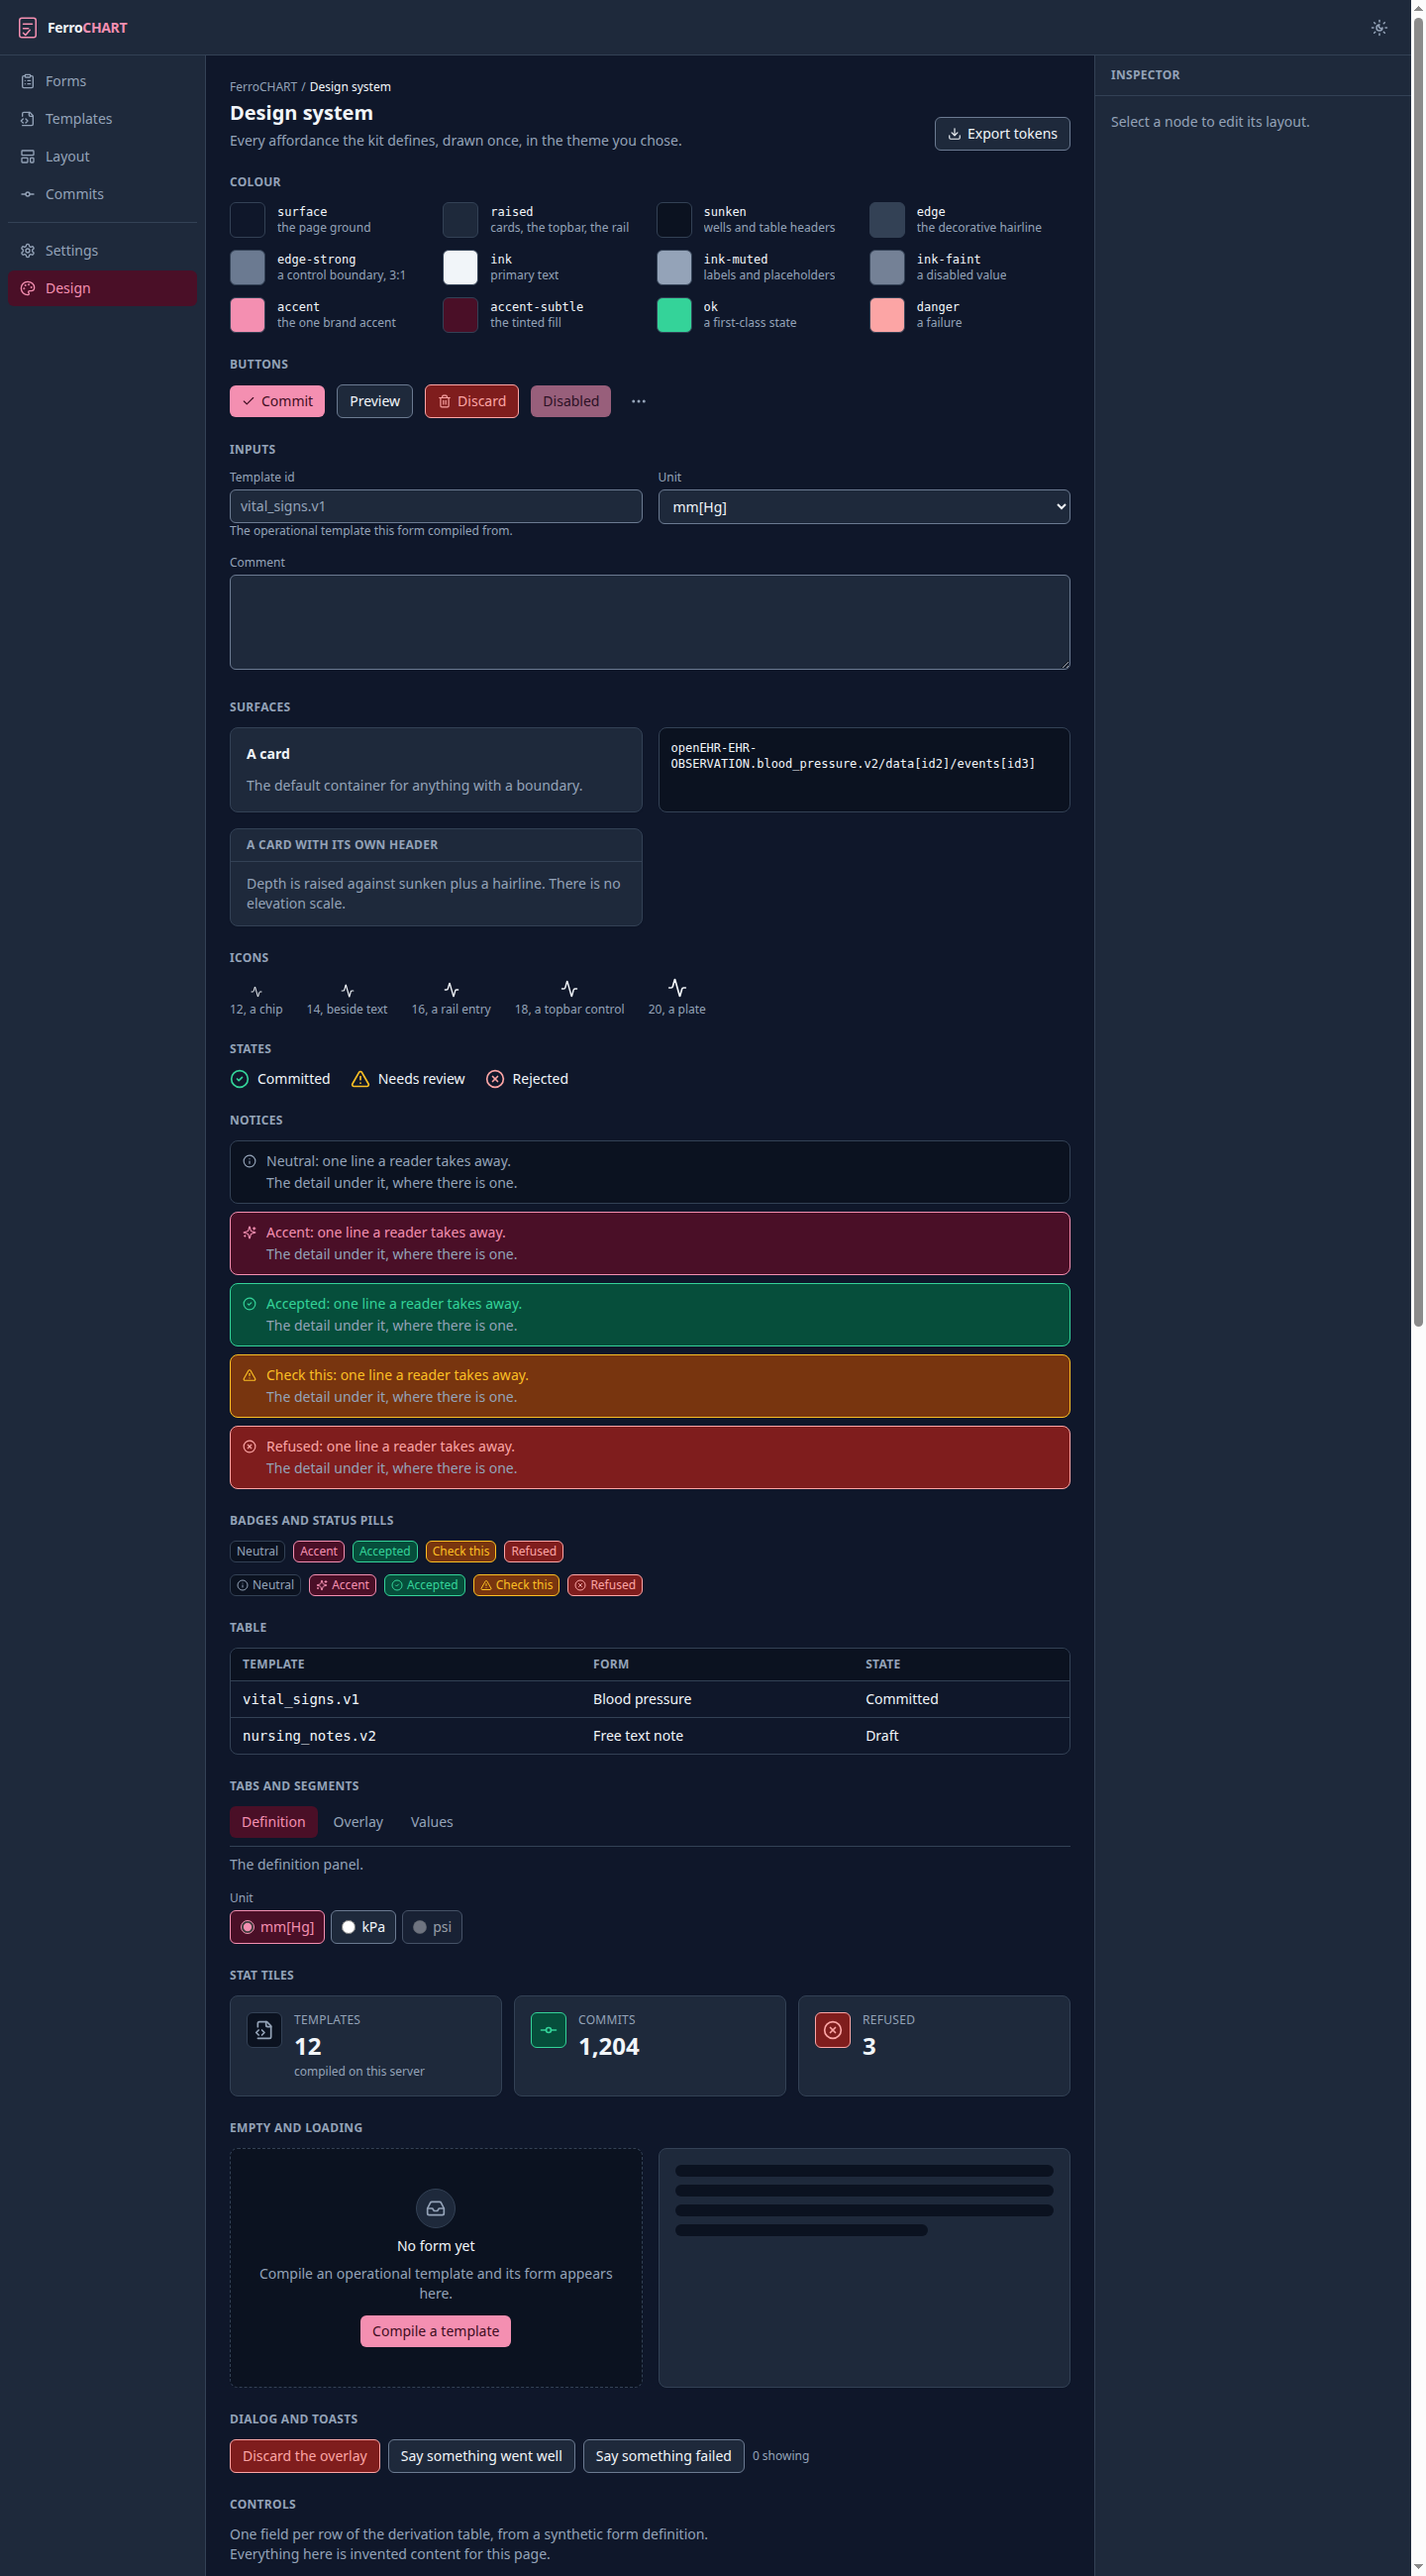
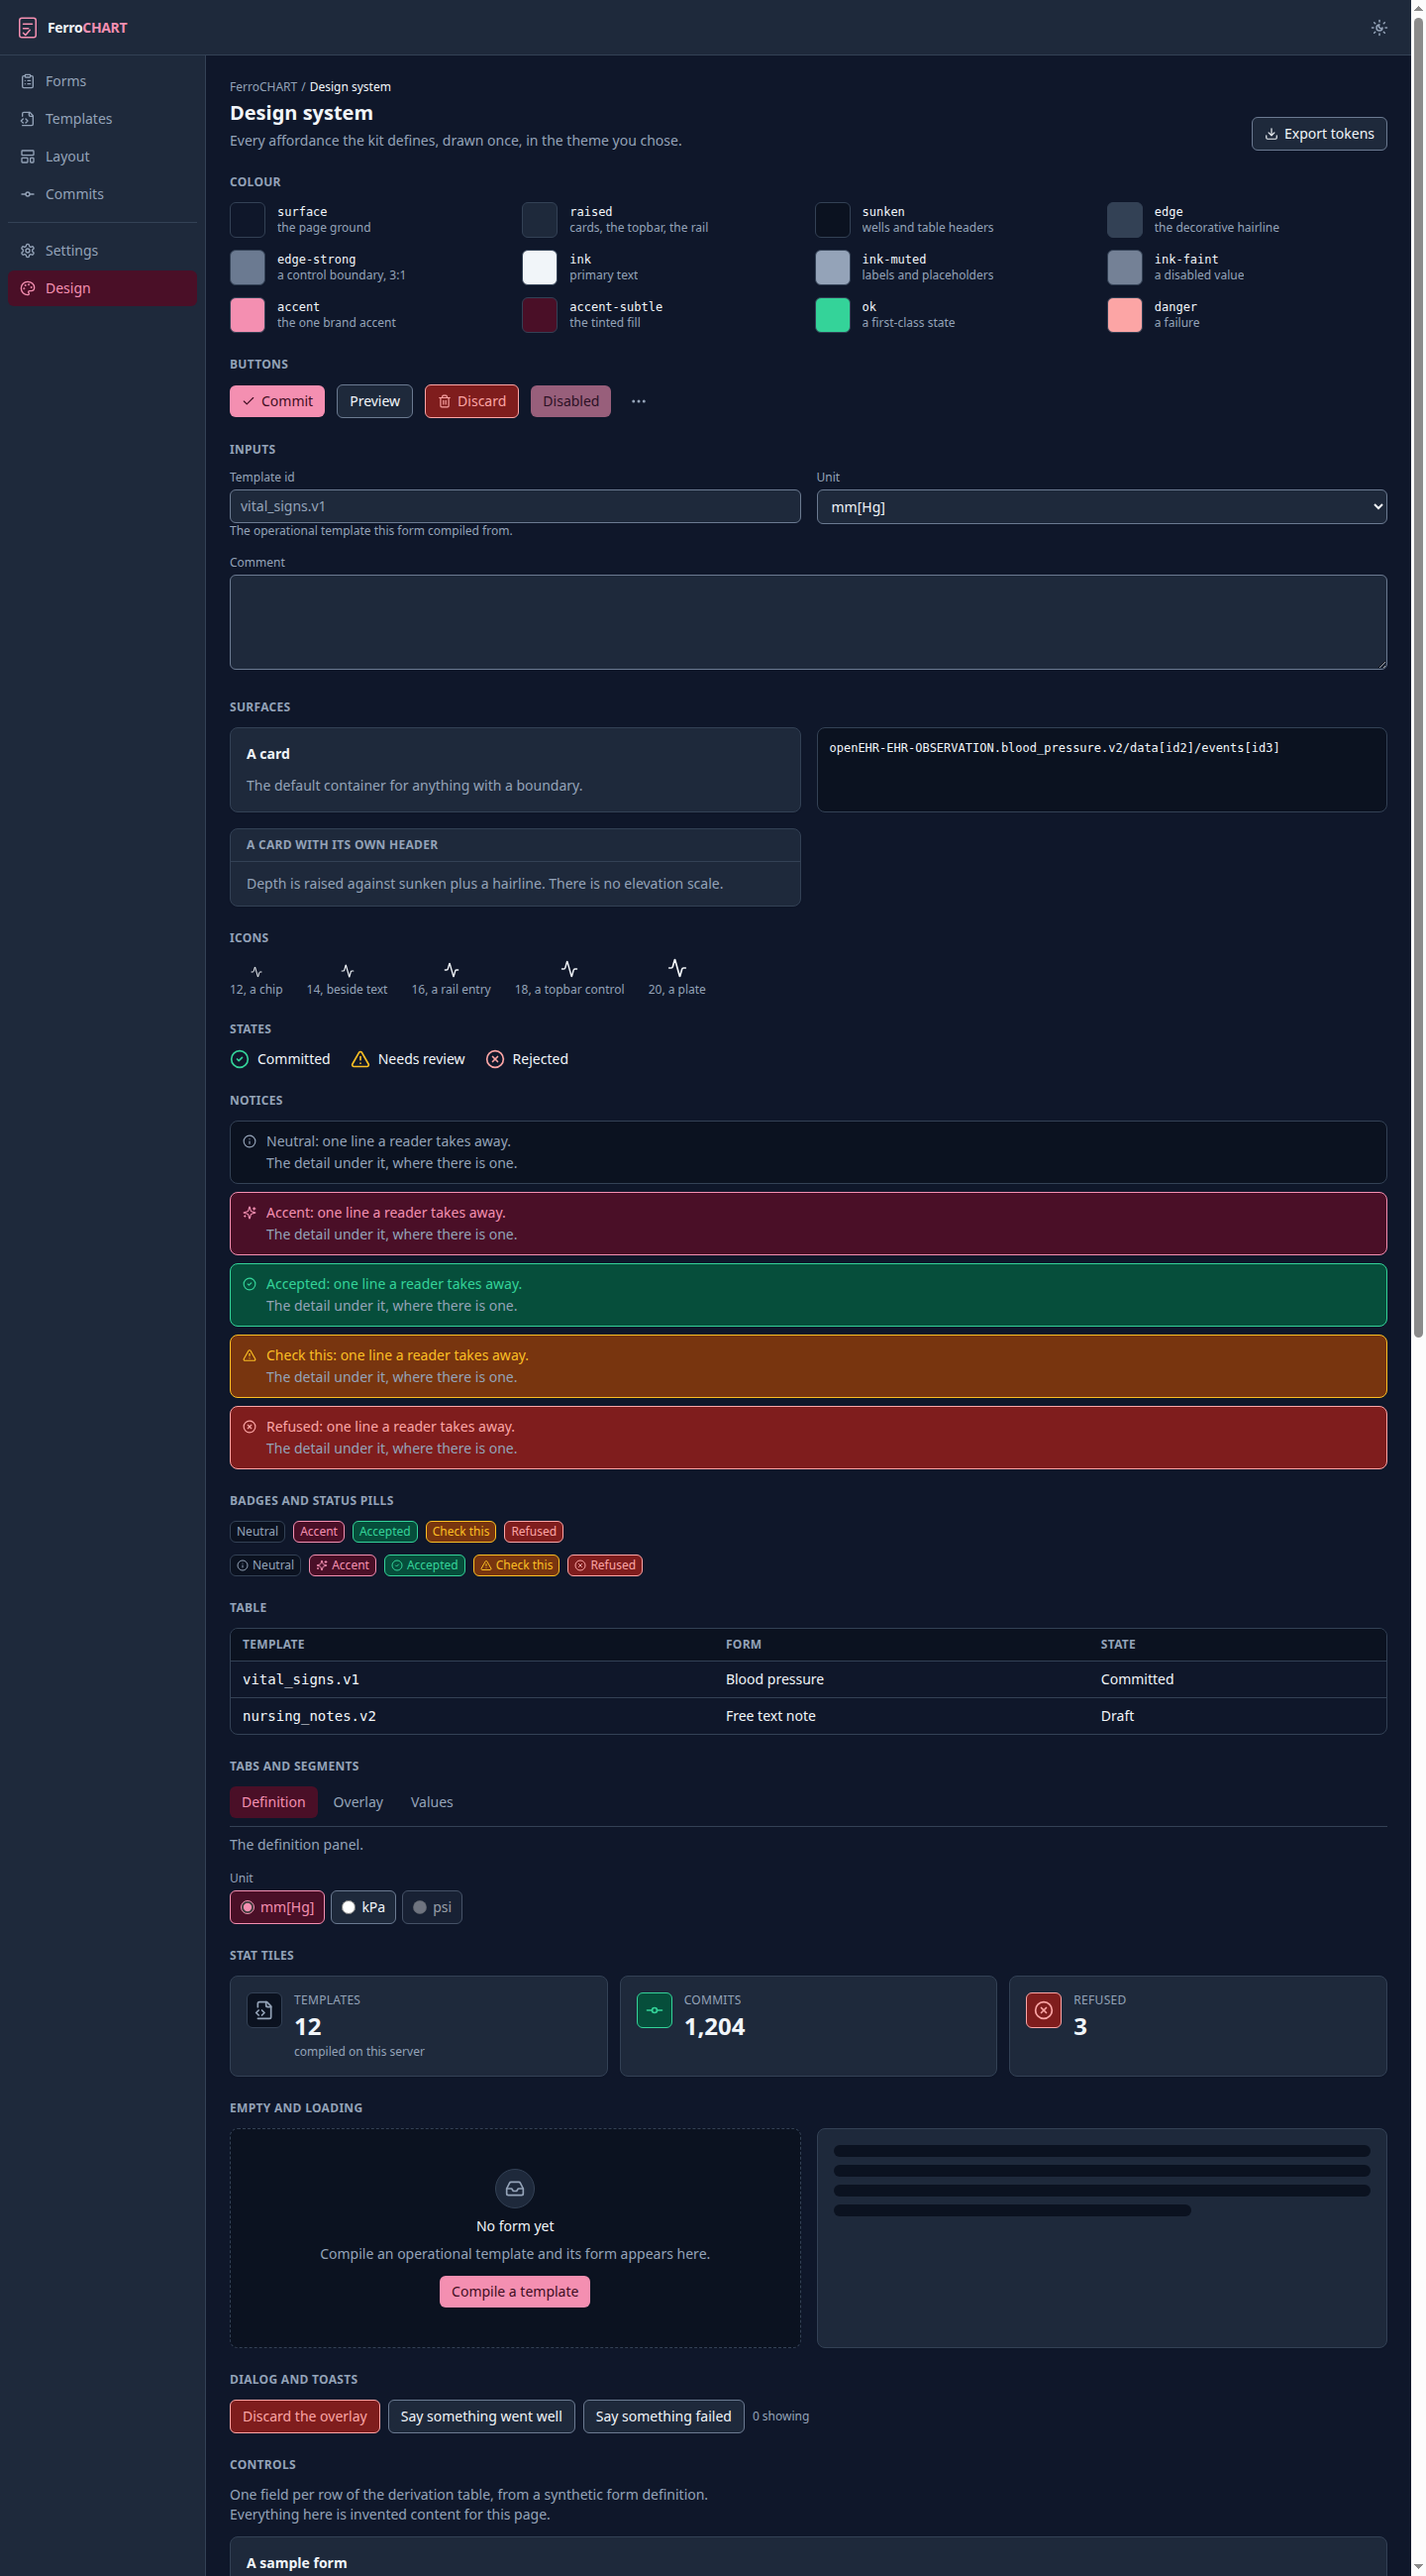
fix(renderer): the frame spends no space on nothing, and the README is true
The Inspector was a 320-pixel column reading "Select a node to edit its
layout" on every screen. Four of them have no node to select and never
will, and on Layout it was drawn beside a line saying the authoring
surface is not built. The panel belongs to the screen that has something
to inspect, so it arrives with the selection that drives it (issue #27).
The width token stays, with a note saying why, so the screen it lands on
is the width it was designed against.

A breadcrumb of one entry is not a trail: it names the screen the
heading under it already names, so Layout read "Layout" twice.

The three frames said things like "The overlay authoring surface lands
with issue #27". The tracker is ours. They say what the screen will do
now, in the reader's terms, and the book keeps the issue number.

The README carried the same defect the website does (#196), in the first
thing anybody reads. It said the round trip had never run against a real
CDR and to "treat the commit path as untested against anything that
enforces openEHR's rules for itself". It runs on every pull request, and
that lane found the defect FerroEHR refused for 66 of 66 templates
rooted below COMPOSITION while every mock accepted it.

It also described the layout overlay as missing only its authoring
screen, when the renderer honours none of it either, promised a browser
that posts what a clinician entered when no form can commit yet, and
gave a `v0.0.5` asset name three releases out of date.

Closes #193.

diff --git a/app/ferrochart-renderer/style/tailwind.css b/app/ferrochart-renderer/style/tailwind.css
@@ -107,8 +107,10 @@
   --shadow-card: 0 1px 2px 0 rgb(2 6 23 / 0.06);
 
   /* The rail is the sibling's 208px. The inspector is FerroCHART's own
-     column: a builder selects a node and edits its layout, so the panel is
-     persistent rather than a drawer. */
+     column: a builder selects a node and edits its layout, so the panel will
+     be persistent rather than a drawer. It is not drawn until the selection
+     that drives it exists (issue #27), and the width is kept here so the
+     screen it arrives on is the width it was designed against. */
   --spacing-rail: 13rem;
   --spacing-inspector: 20rem;
 }

diff --git a/app/ferrochart-renderer/src/shell.rs b/app/ferrochart-renderer/src/shell.rs
@@ -7,9 +7,11 @@
 //! of the `FerroEHR` viewer so the two products read as one family: a full-width
 //! 56px topbar above everything, a 208px rail, a 40px footer.
 //!
-//! **The third column is FerroCHART's own.** The sibling's right-hand panel
-//! is a transient drawer, because a viewer only ever reads. A form builder
-//! selects a node and edits its layout, so the inspector is persistent.
+//! A third column for the layout inspector is FerroCHART's own, and it is not
+//! drawn yet: the sibling's right-hand panel is a transient drawer because a
+//! viewer only ever reads, and a form builder selects a node and edits its
+//! layout, so this one will be persistent. It arrives with the selection that
+//! drives it (issue #27).
 //!
 //! Below the breakpoint the sibling hides its rail with no scrim and no focus
 //! management. This one turns it into an overlay: the scrim covers the page,
@@ -118,17 +120,17 @@ pub(crate) fn Shell(
                     on:click=move |_| close_rail()
                 ></div>
                 <Rail rail_open=rail_open node=rail />
+                // The inspector belongs to the screen that has something to
+                // inspect, and that screen is the overlay authoring surface of
+                // issue #27. Until then it was a fixed 320-pixel column
+                // reading "Select a node to edit its layout" on the template
+                // library, the style guide, Commits, Settings, and on Layout
+                // itself, which says the authoring surface is not built
+                // (issue #193). It comes back with the selection that drives
+                // it.
                 <main id=MAIN_ID tabindex="-1" class="min-w-0 flex-1 overflow-auto p-6">
                     <Outlet />
                 </main>
-                <aside class="hidden w-inspector shrink-0 overflow-auto border-l border-edge bg-raised lg:block">
-                    <div class="border-b border-edge px-4 py-3 text-xs font-semibold uppercase tracking-wide text-ink-muted">
-                        "Inspector"
-                    </div>
-                    <div class="p-4 text-sm text-ink-muted">
-                        "Select a node to edit its layout."
-                    </div>
-                </aside>
             </div>
 
             <footer class="flex h-10 shrink-0 items-center gap-2 border-t border-edge bg-raised px-4 text-xs text-ink-muted">

diff --git a/app/ferrochart-renderer/src/app.rs b/app/ferrochart-renderer/src/app.rs
@@ -88,19 +88,36 @@ fn Pending(
 /// The layout overlay authoring surface.
 #[component]
 fn Layout() -> impl IntoView {
-    view! { <Pending title="Layout" note="The overlay authoring surface lands with issue #27." /> }
+    view! {
+        <Pending
+            title="Layout"
+            note="Where a form is laid out: the order of the fields, what they are \
+            called, and which of them a person is asked for. Not built yet."
+        />
+    }
 }
 
 /// The commit log.
 #[component]
 fn Commits() -> impl IntoView {
-    view! { <Pending title="Commits" note="What this server posted to the CDR, and what came back." /> }
+    view! {
+        <Pending
+            title="Commits"
+            note="What this server posted to the CDR, and what came back. Not built \
+            yet."
+        />
+    }
 }
 
 /// The settings screen.
 #[component]
 fn Settings() -> impl IntoView {
-    view! { <Pending title="Settings" note="The CDR and terminology endpoints this server uses." /> }
+    view! {
+        <Pending
+            title="Settings"
+            note="The CDR and terminology endpoints this server uses. Not built yet."
+        />
+    }
 }
 
 /// The screen for an address no route owns.

diff --git a/app/ferrochart-renderer/src/kit/page_header.rs b/app/ferrochart-renderer/src/kit/page_header.rs
@@ -44,8 +44,8 @@ pub(crate) fn PageHeader(
     /// One line under the title, or nothing.
     #[prop(optional, into)]
     subtitle: Option<Signal<String>>,
-    /// The trail above the title. Empty draws no breadcrumb at all rather
-    /// than an empty strip.
+    /// The trail above the title. Fewer than two entries draws no breadcrumb
+    /// at all: a trail of one names the screen its own heading names.
     #[prop(optional)]
     crumbs: Vec<Crumb>,
     /// Whether the title is an identifier and therefore monospace.
@@ -55,7 +55,9 @@ pub(crate) fn PageHeader(
     #[prop(optional)]
     children: Option<Children>,
 ) -> impl IntoView {
-    let trail = (!crumbs.is_empty()).then(|| {
+    // A trail of one entry is not a trail: it names the screen the heading
+    // under it already names, so Layout drew "Layout" twice (issue #193).
+    let trail = (crumbs.len() > 1).then(|| {
         let steps: Vec<_> = crumbs
             .into_iter()
             .map(|crumb| match crumb.href {

diff --git a/README.md b/README.md
@@ -32,27 +32,35 @@ derive a form, 2658 fields across 1789 groups.
 The server publishes that definition, and a browser renders it. There is a
 control for every one of the eighteen field kinds the derivation produces,
 each admitting what its template admits and refusing the rest. A repeatable
-group adds and removes occurrences, a field can be given a null flavour
-instead of a value, and content a template left undetermined is drawn as a
-visible hole rather than dropped. What a clinician enters is validated against
-the operational template before any request is made, built into a COMPOSITION,
-posted to a CDR over ITS-REST, and read back into the same form.
+group adds and removes occurrences, and one the template says may be absent
+opens with none of it. A field can be given a reason instead of a value, an
+archetype slot the template left open says so as a place to add content, and
+a value the template never typed is drawn as a visible hole rather than
+dropped. What a clinician enters is validated against the operational
+template before any request is made, built into a COMPOSITION, posted to a CDR
+over ITS-REST, and read back into the same form.
 
-**What does not work yet.** Two things, and the second is the honest one.
+**What does not work yet.** The layout overlay, which is half the product.
 
-The layout overlay's authoring surface is not built. The overlay itself is:
-its storage, its key normalization, its replay across a template revision and
-the report of what matched, moved, disappeared or became ambiguous. What is
-missing is the screen a person uses to author one, so today a form is rendered
-in template order.
+Its engine is built: the storage, the key normalization, the replay across a
+template revision, and the report of what matched, moved, disappeared or
+became ambiguous. Two things are missing. Nobody can author one, because the
+screen for it is not built. And the browser honours none of it, so the
+visibility rules the model already carries, the ones that would ask whether a
+person is deceased before asking when they died, do not reach a form. Until
+both land, a form is rendered in template order and shows every field the
+template admits.
 
-**The round trip has never run against a real CDR.** The ITS-REST client has,
-and the terminology client has, and the whole build-validate-post-accept path
-is exercised end to end against a mock. The one test that would prove the
-claim this project makes is the one still outstanding, tracked as
-[issue #126](https://github.com/rubentalstra/FerroCHART/issues/126). Until it
-runs, treat the commit path as untested against anything that enforces
-openEHR's rules for itself.
+**The round trip runs against a real CDR on every pull request.** The `cdr`
+job starts FerroEHR from the release's own `compose.yaml`, uploads a template
+to it, commits a COMPOSITION FerroCHART built and validated, reads it back and
+compares. It is the only lane that can falsify this project's central claim, so
+it is named in the required check rather than left to a script somebody
+remembers.
+
+That lane has already earned its place: it found a COMPOSITION whose template
+identifier sat at the wrong node, which FerroEHR refused for 66 of 66
+templates rooted below COMPOSITION while every mock in the suite accepted it.
 
 The design of record is [`docs/architecture.md`](docs/architecture.md), the
 output of the research program on
@@ -79,7 +87,7 @@ Every release asset is checksummed and carries a Sigstore attestation, so you
 can check where a binary came from before you trust it:
 
 ```sh
-gh attestation verify ferrochart-v0.0.5-x86_64-unknown-linux-musl.tar.gz \
+gh attestation verify ferrochart-v0.1.0-x86_64-unknown-linux-musl.tar.gz \
   --repo rubentalstra/FerroCHART \
   --signer-workflow rubentalstra/FerroCHART/.github/workflows/release-build.yml
 ```

diff --git a/CHANGELOG.md b/CHANGELOG.md
@@ -56,6 +56,21 @@ the build order.
 
 ### Changed
 
+- **The frame stops spending a fifth of the window on nothing** (#193). A
+  320-pixel Inspector panel reading "Select a node to edit its layout" was
+  drawn on every screen, including four that have no node to select and
+  Layout itself, which says the authoring surface is not built. It arrives
+  with the selection that drives it (#27). A breadcrumb of one entry is no
+  longer drawn: it named the screen its own heading names, so Layout read
+  "Layout" twice. And the three frames say what their screen will do rather
+  than citing a tracker issue number at the reader.
+- The README said the round trip had never run against a real CDR and to
+  treat the commit path as untested (#196). It runs on every pull request
+  (#195, #126). The README also promised a browser that posts what a
+  clinician entered, described the layout overlay as missing only its
+  authoring screen when the renderer honours none of it either, and gave a
+  `v0.0.5` asset name three releases out of date.
+
 - **An open archetype slot reads as a place to add content, not a warning**
   (#180). openEHR AM Release-2.3.0 `AOM2.html` section 4.5.8 gives
   `ARCHETYPE_SLOT` the attribute `is_closed`, "closed to further filling
